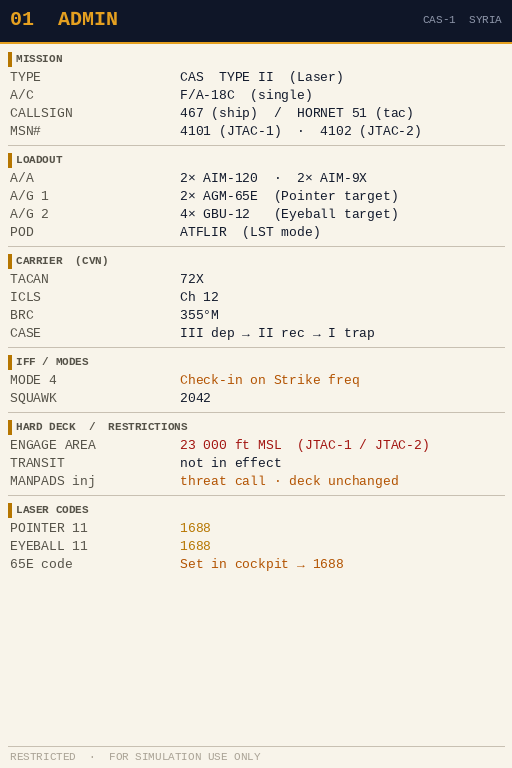
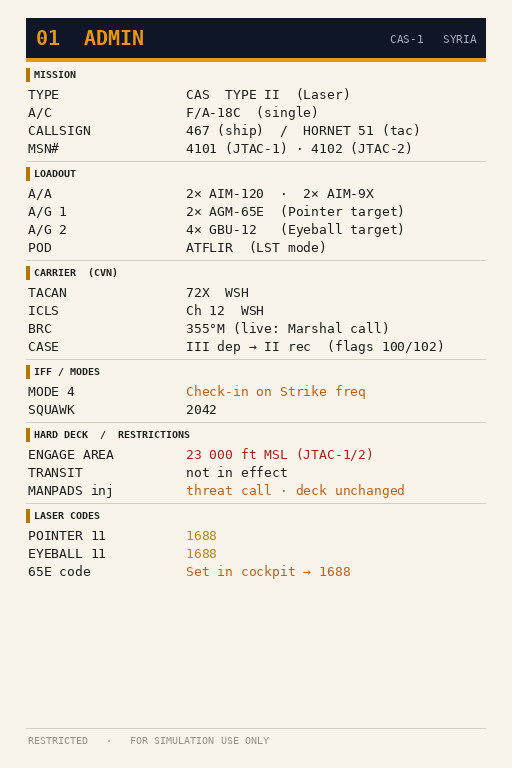
Kneeboard: all five cards generated with clip margins
tools/make_kneeboard.py v3.0.0 replaces make_kneeboard_comm.py and renders
01-05 from data; content sits in a 26/18 px margin because the F/A-18C
kneeboard clip covers the card edges. 03: Marshal COMM1-16 261.00 AM,
recovery CASE II (flag 102). 01: TACAN/ICLS WSH, case flags.

Claude-Session: https://claude.ai/code/session_0148xnrThYTMCStmnJYL15do

diff --git a/tools/make_kneeboard.py b/tools/make_kneeboard.py
@@ -1,0 +1,209 @@
+# make_kneeboard.py | v3.0.0
+# Generates src/KNEEBOARD/images/01..05 *.png (CAS-1 kneeboard, 512x768).
+# v3.0.0: all five cards generated from data below (01/03/04/05 were hand-made
+#         PNGs). Content sits inside a margin (MX/MY) because the F/A-18C
+#         kneeboard clip covers the card edges in flight. 03: Marshal = COMM1-16
+#         261.00 AM. Replaces make_kneeboard_comm.py.
+# Usage: python tools/make_kneeboard.py [out_dir]   (default src/KNEEBOARD/images)
+# Needs Pillow and DejaVu Sans Mono (Windows: put DejaVuSansMono*.ttf next to this
+# file or set KB_FONT_DIR).
+import os, sys
+from PIL import Image, ImageDraw, ImageFont
+
+W, H   = 512, 768
+MX, MY = 26, 18                     # margin (clip-free area)
+IW, IH = W - 2 * MX, H - 2 * MY
+
+BG=(248,244,234); BAND=(230,225,212); NAVY=(15,22,40); ORG=(232,150,20)
+TXT=(30,30,30); GRN=(28,100,40); TAG=(182,118,0); GRY=(150,145,135); RULE=(210,206,196)
+RED=(170,30,30); OCH=(190,95,20); YEL=(185,135,20)
+COL = {"t": TXT, "g": GRN, "o": OCH, "r": RED, "y": YEL, "m": GRY, "a": TAG}
+
+def font(bold, size):
+    names = ["DejaVuSansMono-Bold.ttf" if bold else "DejaVuSansMono.ttf"]
+    dirs = [os.environ.get("KB_FONT_DIR", ""), os.path.dirname(os.path.abspath(__file__)),
+            "/usr/share/fonts/truetype/dejavu", "C:/Windows/Fonts"]
+    for d in dirs:
+        for n in names:
+            p = os.path.join(d, n)
+            if d and os.path.isfile(p): return ImageFont.truetype(p, size)
+    raise SystemExit("DejaVu Sans Mono not found (set KB_FONT_DIR)")
+
+F13, F11, F10 = font(False, 13), font(False, 11), font(False, 10)
+B11, B10, BT = font(True, 11), font(True, 10), font(True, 20)
+VX = 160   # value column (inner coordinates)
+
+class Card:
+    def __init__(self, num, title, tl, tr):
+        self.inner = Image.new("RGB", (IW, IH), BG)
+        self.d = ImageDraw.Draw(self.inner)
+        d = self.d
+        d.rectangle((0, 0, IW, 40), fill=NAVY); d.rectangle((0, 40, IW, 43), fill=ORG)
+        d.text((10, 8), f"{num}  {title}", font=BT, fill=ORG)
+        d.text((IW - 10, 14), f"{tl}   {tr}", font=F11, fill=(170, 175, 190), anchor="ra")
+        self.y = 50
+    def head(self, t, c="t"):
+        d = self.d
+        d.rectangle((0, self.y, 3, self.y + 13), fill=TAG); d.text((8, self.y), t, font=B10, fill=COL[c]); self.y += 18
+    def band(self, t):
+        self.d.rectangle((0, self.y, IW, self.y + 21), fill=BAND); self.d.text((8, self.y + 3), t, font=F13, fill=TXT); self.y += 24
+    def kv(self, k, v, c="t"):
+        self.d.text((2, self.y), k, font=F13, fill=TXT); self.d.text((VX, self.y), v, font=F13, fill=COL[c]); self.y += 18
+    def nine(self, n, k, v):
+        self.d.text((2, self.y + 2), n, font=F10, fill=GRY); self.d.text((20, self.y + 2), k, font=F10, fill=GRY)
+        self.d.text((80, self.y), v, font=F13, fill=TXT); self.y += 17
+    def line(self, t, c="t", f=None):
+        self.d.text((2, self.y), t, font=f or F11, fill=COL[c]); self.y += 15
+    def chrow(self, ch, fq, name, tag, note=""):
+        d = self.d
+        d.text((2, self.y + 2), ch, font=F11, fill=GRY); d.text((22, self.y), fq, font=F13, fill=TXT)
+        d.text((140, self.y), name, font=F13, fill=GRN)
+        if note: d.text((IW - 50, self.y + 2), note, font=F10, fill=GRY, anchor="ra")
+        d.text((IW - 4, self.y + 2), tag, font=B11, fill=TAG, anchor="ra"); self.y += 18
+    def rule(self):
+        self.y += 3; self.d.line((0, self.y, IW, self.y), fill=RULE); self.y += 6
+    def save(self, path):
+        d = self.d
+        d.line((0, IH - 22, IW, IH - 22), fill=RULE)
+        d.text((2, IH - 16), "RESTRICTED   ·   FOR SIMULATION USE ONLY", font=F10, fill=GRY)
+        out = Image.new("RGB", (W, H), BG); out.paste(self.inner, (MX, MY)); out.save(path)
+        print("%-12s bottom y %d / %d" % (os.path.basename(path), self.y, IH - 24))
+
+def admin():
+    c = Card("01", "ADMIN", "CAS-1", "SYRIA")
+    c.head("MISSION")
+    c.kv("TYPE", "CAS  TYPE II  (Laser)"); c.kv("A/C", "F/A-18C  (single)")
+    c.kv("CALLSIGN", "467 (ship)  /  HORNET 51 (tac)"); c.kv("MSN#", "4101 (JTAC-1) · 4102 (JTAC-2)")
+    c.rule(); c.head("LOADOUT")
+    c.kv("A/A", "2× AIM-120  ·  2× AIM-9X"); c.kv("A/G 1", "2× AGM-65E  (Pointer target)")
+    c.kv("A/G 2", "4× GBU-12   (Eyeball target)"); c.kv("POD", "ATFLIR  (LST mode)")
+    c.rule(); c.head("CARRIER  (CVN)")
+    c.kv("TACAN", "72X  WSH"); c.kv("ICLS", "Ch 12  WSH"); c.kv("BRC", "355°M (live: Marshal call)")
+    c.kv("CASE", "III dep → II rec  (flags 100/102)")
+    c.rule(); c.head("IFF / MODES")
+    c.kv("MODE 4", "Check-in on Strike freq", "o"); c.kv("SQUAWK", "2042")
+    c.rule(); c.head("HARD DECK  /  RESTRICTIONS")
+    c.kv("ENGAGE AREA", "23 000 ft MSL (JTAC-1/2)", "r"); c.kv("TRANSIT", "not in effect")
+    c.kv("MANPADS inj", "threat call · deck unchanged", "o")
+    c.rule(); c.head("LASER CODES")
+    c.kv("POINTER 11", "1688", "y"); c.kv("EYEBALL 11", "1688", "y"); c.kv("65E code", "Set in cockpit → 1688", "o")
+    return c
+
+def comm():
+    c = Card("02", "COMM LADDER", "CAS-1", "SYRIA")
+    c.band("COMM 1  (UFC → C1)   all AM")
+    for r in [("01","262.00 AM","TOWER/PADDLES","TWR","CASE I/II"),("02","269.00 AM","DEPARTURE","DEP",""),
+              ("03","265.00 AM","STRIKE","STK",""),("04","333.30 AM","POINTER 11","JTAC-1",""),
+              ("05","333.40 AM","EYEBALL 11","JTAC-2",""),("06","251.10 AM","OVERLORD","OVL",""),
+              ("07","252.10 AM","TEXACO 11","TKR",""),("15","263.00 AM","APPROACH","APP","+CASE III LSO"),
+              ("16","261.00 AM","MARSHAL","MRS","CV COMMS")]:
+        c.chrow(*r)
+    c.rule(); c.band("COMM 2  (UFC → C2)")
+    c.chrow("01", "251.10 AM", "OVERLORD mon", "OVL")
+    c.chrow("02", "128.10 AM", "AI traffic", "AI", "02–10: 128.1–128.9")
+    c.rule(); c.head("DISCRETE / GUARD")
+    c.kv("GUARD", "243.00 AM (monitor)", "m"); c.kv("ABORT (tac)", 'JTAC: "abort, abort, abort"')
+    c.kv("CVN native", "127.60 AM not used (F1)", "m")
+    c.rule(); c.head("COMM FLOW   (F10 CAS-1 COMMS / CV COMMS)")
+    flow = [("1","Airborne","DEP","C1-02","CASE III dep (I/II zip)"),("2","7 DME/clrd","STK","C1-03","Mode 4 · Kilo"),
+            ("3","Strike h/o","OVL","C1-06","check in · picture"),("4","20 NM to CP","PTR","C1-04","native JTAC"),
+            ("5","Off Pointer","OVL","C1-06","→ EYE C1-05"),("6","Off Eyeball","OVL","C1-06","INFLTREP → Texaco"),
+            ("7","Texaco","TKR","C1-07","check in · refuel"),("8","Off Texaco","OVL","C1-06","RTB · feet wet"),
+            ("9","90 NM CVN","STK","C1-03","check in inbound"),("10","50 NM CVN","MRS","C1-16","check in · readback"),
+            ("11","Marshal h/o","APP","C1-15","CASE II/III appr"),("12","See you at 10","TWR","C1-01","ZIPLIP (CASE I/II)")]
+    for n, a, b, ch, e in flow:
+        d = c.d; y = c.y
+        d.text((2, y), n, font=F11, fill=TXT); d.text((22, y), a, font=F11, fill=TXT)
+        d.text((122, y), "→", font=F11, fill=GRY); d.text((136, y), b, font=F11, fill=GRN)
+        d.text((166, y), ch, font=F11, fill=GRN); d.text((214, y), e, font=F11, fill=TXT); c.y += 15
+    c.rule(); c.head("CV HOLD")
+    c.line("CASE II/III: R-196 / 25 DME / angels 10 · EAT")
+    c.line("CASE I: overhead, angels 2 · commence at port beam")
+    return c
+
+def route():
+    c = Card("03", "ROUTE / NAV", "CAS-1", "SYRIA")
+    c.head("OUTBOUND  (CASE III DEP → 043°M → 233 NM)")
+    d = c.d
+    d.text((2, c.y), "WP", font=F10, fill=GRY); d.text((42, c.y), "NAME", font=F10, fill=GRY); d.text((190, c.y), "NOTES", font=F10, fill=GRY); c.y += 14
+    wps = [("WP0","CATAPULT","t","CVN","CASE III dep"),("WP1","DEPART","t","","22 000 ft · alt hold"),
+           ("WP2","CP TIGER","t","YE 1990 4989","22 000 ft · JTAC h/o 20 NM out"),
+           ("IP1","IP LYNX","y","37S BV 8009 0816","24 000 ft · JTAC-1"),
+           ("TGT1","TARGET ALPHA","r","BV 6187 2081","elev 570 ft"),
+           ("IP2","IP PUMA","y","36S YE 4714 5182","24 000 ft · JTAC-2"),
+           ("TGT2","TARGET BRAVO","r","YE 5987 3843","elev 150 ft")]
+    for wp, name, col, grid, note in wps:
+        y = c.y
+        d.text((2, y + 1), wp, font=B10, fill=COL[col] if col != "t" else TXT)
+        d.text((42, y), name, font=F13, fill=COL[col]); c.y += 15
+        d.text((50, c.y), grid, font=F11, fill=TXT); d.text((190, c.y), note, font=F11, fill=GRY); c.y += 14
+    c.rule(); c.head("TANKER / EGRESS")
+    c.kv("TEXACO 11", "YE 0694 6582 · angels 15", "g"); c.kv("FREQ", "252.10 · btn 7 (COMM1-07)")
+    c.kv("EGRESS", "Feet wet → RTB 043°M rev")
+    c.rule(); c.head("RETURN CORRIDOR")
+    c.kv("CORRIDOR", "050° radial ±15° (035–065)", "o"); c.kv("MARSHAL", "50 NM → COMM1-16 (261.00 AM)")
+    c.kv("RECOVERY", "BRC 355° · CASE II (flag 102)")
+    c.rule(); c.head("MAG VARIATION")
+    c.kv("AREA", "True − 5°  →  Mag ≈ True+5°", "m")
+    c.rule(); c.head("HARD DECK")
+    c.kv("ENGAGE AREA", "23 000 ft MSL", "r"); c.kv("TRANSIT", "not in effect")
+    return c
+
+def jtac(num, name, tl, tr, contact, nine, restr, extra_head, extra, flow, threats=None, banner=None):
+    c = Card(num, name, tl, tr)
+    c.head("CONTACT")
+    for k, v, col in contact: c.kv(k, v, col)
+    c.rule(); c.head("9-LINE  (REFERENCE)")
+    for i, (k, v) in enumerate(nine, 1): c.nine(str(i), k, v)
+    c.rule(); c.head("RESTRICTIONS / GEOMETRY", "r")
+    for k, v, col in restr: c.kv(k, v, col)
+    if extra:
+        c.rule(); c.head(extra_head)
+        for a, b in extra:
+            c.d.text((2, c.y + 1), a, font=B10, fill=GRY); c.d.text((40, c.y), b, font=F13, fill=TXT); c.y += 17
+    c.rule(); c.head("BREVITY FLOW")
+    for l in flow: c.line(l, f=F10)
+    if threats:
+        c.rule(); c.head("THREATS")
+        for l, col in threats: c.line(l, col, F10)
+    if banner:
+        c.y += 2; c.d.rectangle((0, c.y, IW, c.y + 18), fill=(250, 232, 200))
+        c.d.text((4, c.y + 3), banner, font=F10, fill=OCH); c.y += 20
+    return c
+
+def jtac1():
+    return jtac("04", "POINTER 11", "JTAC-1", "ALPHA",
+        [("CALLSIGN","POINTER ONE-ONE","t"),("FREQ","333.30 AM · COMM1-04","t"),("LASER","1688","y"),
+         ("CHECK-IN","OVERLORD h/o, 20 NM to CP","t")],
+        [("IP","LYNX"),("HDG","300°M"),("DIST","12.0 NM"),("ELEV","570 ft"),("TGT","SA-13 launcher + T-55 tank"),
+         ("GRID","BV 6187 2081"),("MARK","Laser · Pointer · 1688"),("FRDLY","EAST · 1 200 m"),
+         ("EGRESS","North → TIGER · block 24–26k")],
+        [("FAH","285° – 315°  (attack cone)","r"),("HARD DECK","23 000 ft MSL (eng. area)","r"),
+         ("LTL","260° (laser-target line)","t"),("TYPE","Type II · BOT","t")],
+        None, None,
+        ["IP inbound  →  Continue","In [hdg]  →  Cleared hot","Rifle  →  Ten seconds  →  Laser on",
+         "JTAC: Lasing  →  Spot  →  [release]","Terminate  →  Laser off  ·  BDA"],
+        threats=[("SA-13  at  BV62  (target site)", "r"), ("SA-8  vicinity  YE53  ·  2 NM", "o")])
+
+def jtac2():
+    return jtac("05", "EYEBALL 11", "JTAC-2", "BRAVO",
+        [("CALLSIGN","EYEBALL ONE-ONE","t"),("FREQ","333.40 AM · COMM1-05","t"),("LASER","1688","y"),
+         ("CHECK-IN","Via OVERLORD, off Pointer 11","t")],
+        [("IP","PUMA"),("HDG","135°M"),("DIST","10.0 NM"),("ELEV","150 ft"),("TGT","SA-8 btry (2×TEL+BTR+T-72)"),
+         ("GRID","YE 5987 3843"),("MARK","Laser · Eyeball · 1688"),("FRDLY","WEST · 400 m"),
+         ("EGRESS","Left pull NW · feet wet")],
+        [("FAH","135° – 145°  (tight cone)","r"),("HARD DECK","23 000 ft MSL (eng. area)","r"),
+         ("LTL","105° (laser-target line)","t"),("TYPE","Type II · BOT","t")],
+        "TARGET ORDER  (4 RUNS)",
+        [("1st","Northern SA-8 launcher"),("2nd","Southern SA-8 launcher"),("3rd","BTR (~150 m NE of 2nd)"),
+         ("4th","T-72 (~250 m NW of BTR)")],
+        ["IP inbound  →  Continue","In [hdg]  →  Cleared hot  →  Bomb away","Ten seconds  →  Laser on  →  Lasing",
+         "Terminate  →  Laser off  ·  BDA"],
+        banner="! MANPADS inject (25%): threat call · deck 23 000 MSL")
+
+if __name__ == "__main__":
+    out = sys.argv[1] if len(sys.argv) > 1 else os.path.join(
+        os.path.dirname(os.path.dirname(os.path.abspath(__file__))), "src", "KNEEBOARD", "images")
+    for fn, mk in [("01_ADMIN.png", admin), ("02_COMM.png", comm), ("03_ROUTE.png", route),
+                   ("04_JTAC1.png", jtac1), ("05_JTAC2.png", jtac2)]:
+        mk().save(os.path.join(out, fn))
